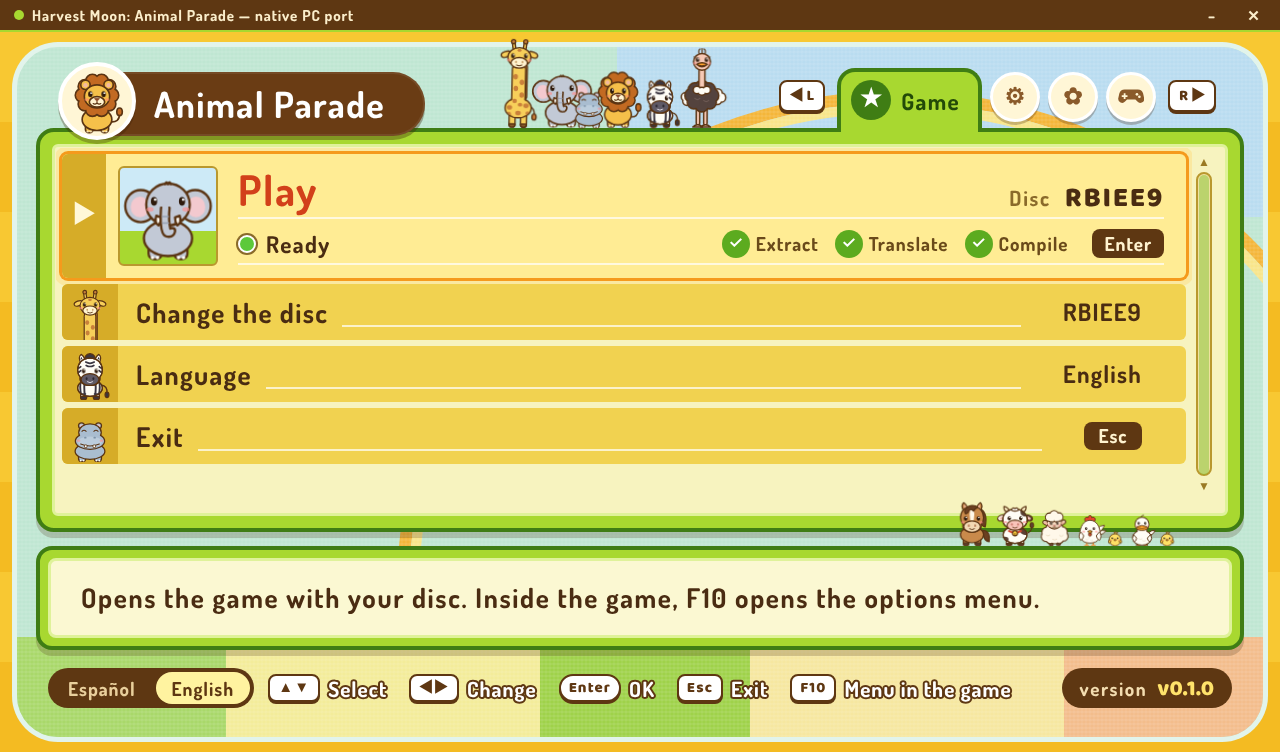
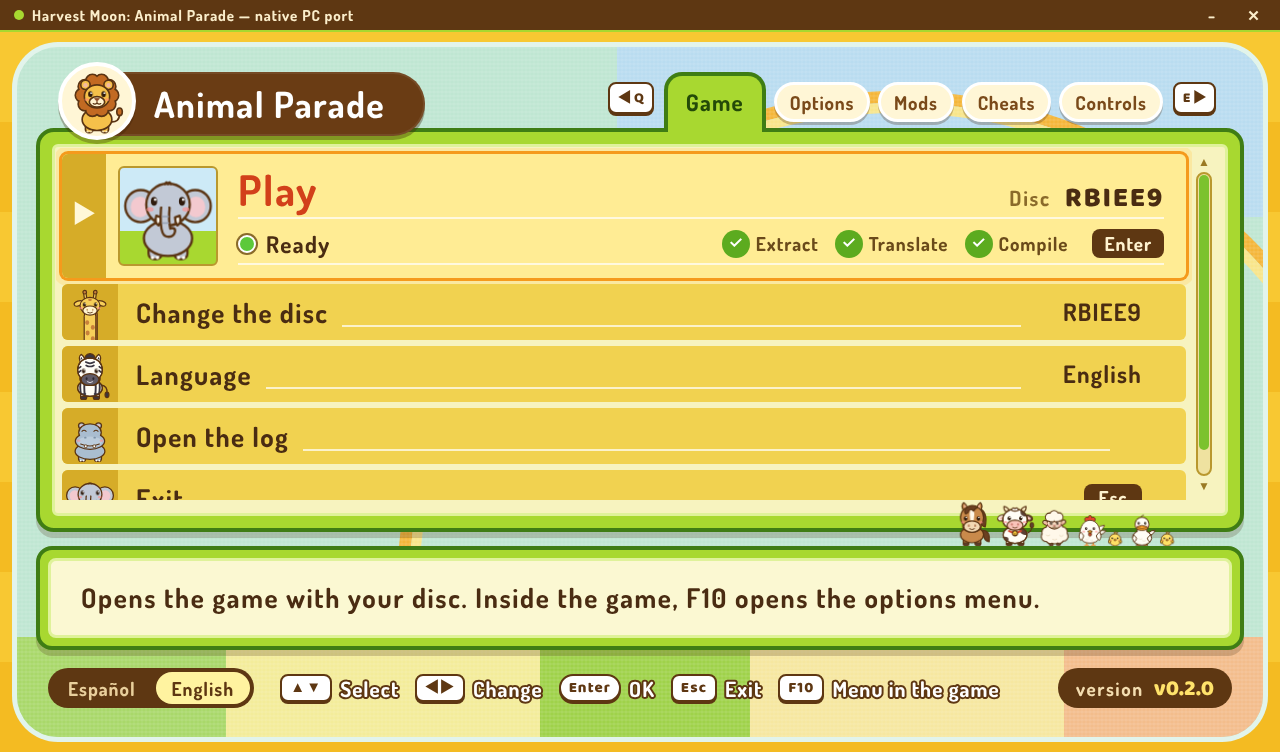
READMEs: the new Controls tab, and new launcher screenshots

diff --git a/README.es.md b/README.es.md
@@ -154,10 +154,11 @@ dispositivos.
 ### El launcher
 
 El launcher prepara y abre el juego y tiene sus ajustes principales: el idioma, la imagen, la
-interpolación de cuadros, la resolución, la pantalla completa y la API gráfica. En
-**Controles**, a cada botón del Wii Remote y del Nunchuk, y al avance rápido, se le puede dar
-cualquier tecla o botón del control. Está en inglés o en español, y se usa con el mouse, el
-teclado o las flechas.
+interpolación de cuadros, la resolución, la pantalla completa y la API gráfica. **Controles**
+dice arriba si hay un control conectado (y cuál), y a cada botón del Wii Remote y del Nunchuk, y al
+avance rápido, le da cualquier tecla o botón del control, en dos columnas; ahí mismo se configuran
+los Wii Remotes reales. Está en inglés o en español, y se usa con el mouse, el teclado o un control
+(cruceta, A, B, LB y RB).
 
 | Juego | Opciones | Controles |
 |---|---|---|

diff --git a/README.md b/README.md
@@ -153,9 +153,11 @@ yet.
 ### The launcher
 
 The launcher prepares and starts the game and holds its main settings: the language, the
-picture, frame interpolation, resolution, fullscreen and the graphics API. In **Controls**
-every Wii Remote and Nunchuk button, and fast-forward, can be given any key or controller
-button. It speaks English or Spanish, and is driven with the mouse, the keyboard or the arrows.
+picture, frame interpolation, resolution, fullscreen and the graphics API. **Controls** shows on
+top whether a controller is connected (and which), and gives every Wii Remote and Nunchuk button,
+and fast-forward, any key or controller button, in two columns; real Wii Remotes are set up there
+too. It speaks English or Spanish, and is driven with the mouse, the keyboard or a controller
+(D-pad, A, B, LB and RB).
 
 | Game | Options | Controls |
 |---|---|---|
